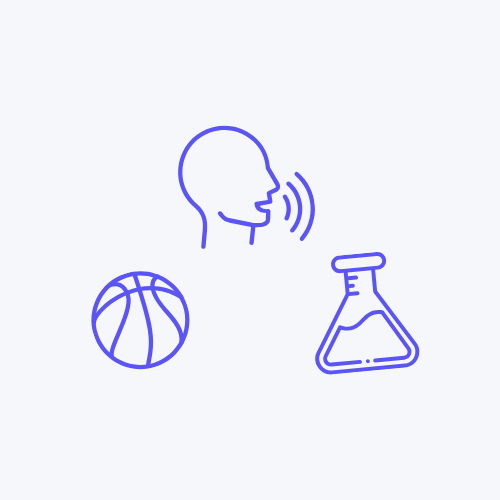
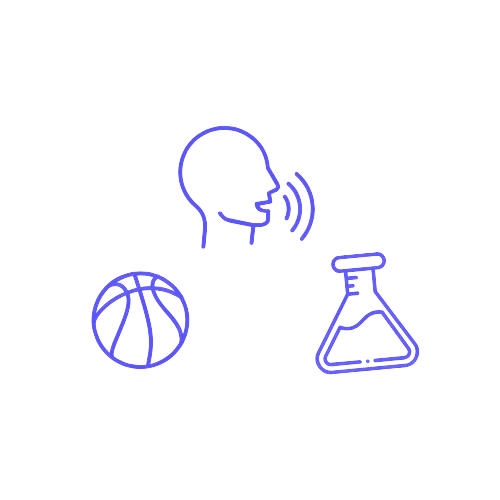
backgroiund color and backgroudn ermoved images.

diff --git a/app/(auth)/welcome.tsx b/app/(auth)/welcome.tsx
@@ -14,7 +14,7 @@ const Home = () => {
   const isLastSlide = activeIndex === onboarding.length - 1;
 
   return (
-    <SafeAreaView className="flex h-full items-center justify-between bg-white">
+    <SafeAreaView className="flex h-full items-center justify-between bg-[#E2E8F0]">
       <TouchableOpacity
         onPress={() => {
           router.replace("/(auth)/sign-up");
@@ -31,17 +31,18 @@ const Home = () => {
           <View className="w-[32px] h-[4px] mx-1 bg-[#E2E8F0] rounded-full" />
         }
         activeDot={
-          <View className="w-[32px] h-[4px] mx-1 bg-[#0286FF] rounded-full" />
+          <View className="w-[32px] h-[4px] mx-1 bg-primary-500 rounded-full" />
         }
         onIndexChanged={(index) => setActiveIndex(index)}
       >
         {onboarding.map((item) => (
-          <View key={item.id} className="flex items-center justify-center p-5">
+          <View key={item.id} className="flex items-center justify-center">
             <Image
               source={item.image}
               className="w-full h-[300px]"
               resizeMode="contain"
             />
+
             <View className="flex flex-row items-center justify-center w-full mt-10">
               <Text className="text-black text-3xl font-bold mx-10 text-center">
                 {item.title}
@@ -61,7 +62,7 @@ const Home = () => {
             ? router.replace("/(auth)/sign-up")
             : swiperRef.current?.scrollBy(1)
         }
-        className="w-11/12 mt-10 mb-5"
+        className="w-11/12 mt-6 mb-10"
       />
     </SafeAreaView>
   );

diff --git a/components/CustomButton.tsx b/components/CustomButton.tsx
@@ -13,7 +13,7 @@ const getBgVariantStyle = (variant: ButtonProps["bgVariant"]) => {
     case "outline":
       return "bg-transparent border-neutral-300 border-[0.5px]";
     default:
-      return "bg-[#0286FF]";
+      return "bg-primary-500";
   }
 };
 
